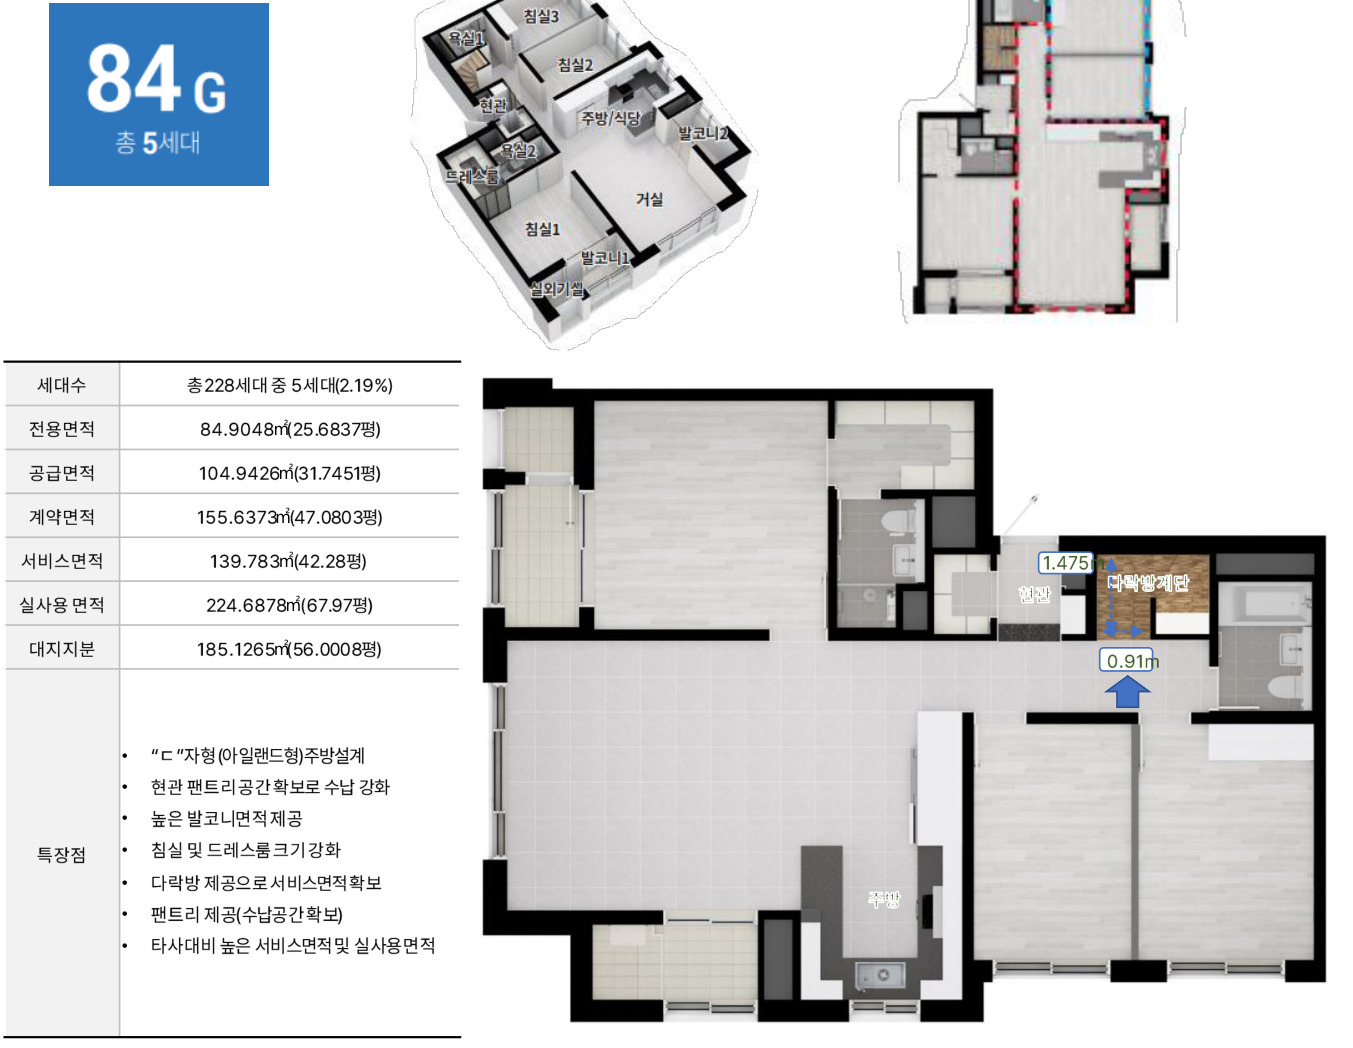
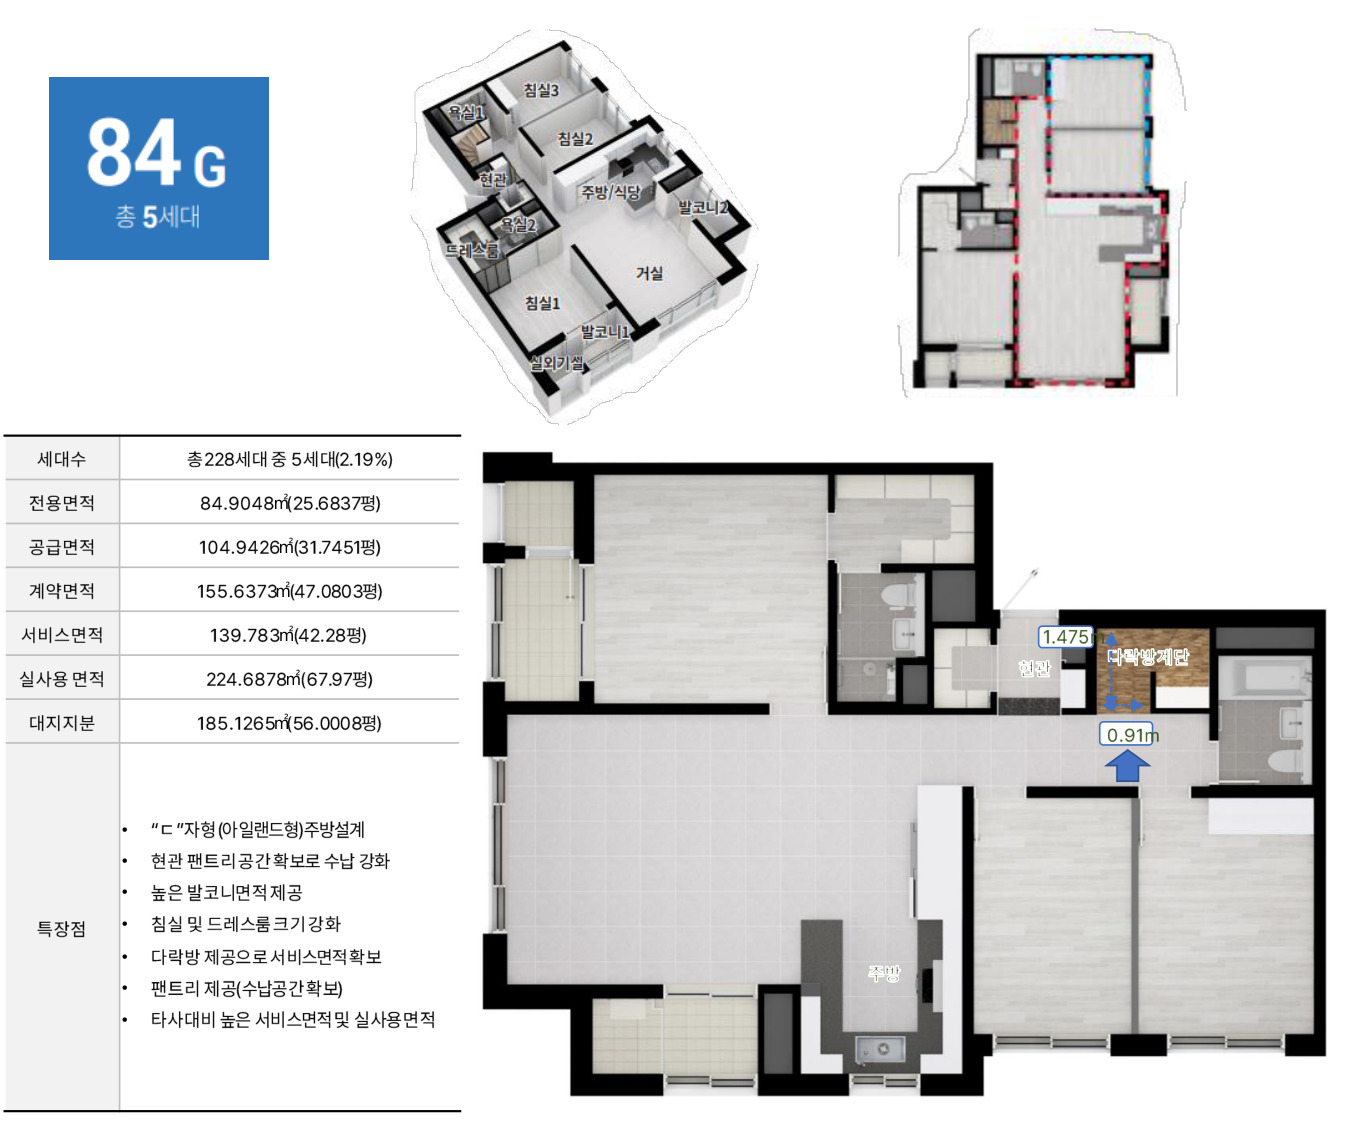
Add top margin to unit plan images

diff --git a/src/App.tsx b/src/App.tsx
@@ -127,77 +127,77 @@ const unitPlans: Record<
     title: "실사용 약 122.18㎡ 기본형",
     body: "3층 배치, 전용 84.96㎡에 발코니 서비스 면적을 더한 실속형 타입입니다.",
     households: "총 17세대",
-    image: "/assets/unit-84a-pdf.jpg",
+    image: "/assets/unit-84a-pdf.jpg?v=20260526-top-safe",
   },
   "84B": {
     label: "84B",
     title: "실사용 약 131.51㎡ 테라스형",
     body: "2층 배치, 발코니와 테라스 서비스 면적을 함께 누리는 확장감 있는 타입입니다.",
     households: "총 17세대",
-    image: "/assets/unit-84b-pdf.jpg",
+    image: "/assets/unit-84b-pdf.jpg?v=20260526-top-safe",
   },
   "84C": {
     label: "84C",
     title: "실사용 약 132.33㎡ 테라스형",
     body: "2층 일부 세대에 계획된 희소 타입으로 테라스 활용도를 높인 평면입니다.",
     households: "총 2세대",
-    image: "/assets/unit-84c-pdf.jpg",
+    image: "/assets/unit-84c-pdf.jpg?v=20260526-top-safe",
   },
   "84D": {
     label: "84D",
     title: "실사용 약 140.98㎡ 와이드형",
     body: "3층 배치, 넓은 테라스 서비스 면적으로 여유로운 외부공간을 더했습니다.",
     households: "총 27세대",
-    image: "/assets/unit-84d-pdf.jpg",
+    image: "/assets/unit-84d-pdf.jpg?v=20260526-top-safe",
   },
   "84E": {
     label: "84E",
     title: "실사용 약 241.64㎡ 다락 특화형",
     body: "3~4층 배치, 테라스와 다락을 모두 더한 대표 복층 특화 타입입니다.",
     households: "총 46세대",
-    image: "/assets/unit-84e-pdf.jpg",
+    image: "/assets/unit-84e-pdf.jpg?v=20260526-top-safe",
   },
   "84F": {
     label: "84F",
     title: "실사용 약 116.23㎡ 저층형",
     body: "1~3층에 고르게 배치된 타입으로 실용적인 발코니 서비스 면적을 갖췄습니다.",
     households: "총 14세대",
-    image: "/assets/unit-84f-pdf.jpg",
+    image: "/assets/unit-84f-pdf.jpg?v=20260526-top-safe",
   },
   "84G": {
     label: "84G",
     title: "실사용 약 224.68㎡ 다락 특화형",
     body: "3~4층 배치, 테라스와 다락이 더해져 입체적인 라이프스타일을 담는 타입입니다.",
     households: "총 5세대",
-    image: "/assets/unit-84g-pdf.jpg",
+    image: "/assets/unit-84g-pdf.jpg?v=20260526-top-safe",
   },
   "93": {
     label: "93",
     title: "실사용 약 132.64㎡ 중대형",
     body: "1층 배치, 전용 93.68㎡에 발코니 서비스 면적을 더한 여유형 타입입니다.",
     households: "총 19세대",
-    image: "/assets/unit-93-pdf.jpg",
+    image: "/assets/unit-93-pdf.jpg?v=20260526-top-safe",
   },
   "98": {
     label: "98",
     title: "실사용 약 162.30㎡ 테라스형",
     body: "2층 배치, 넓어진 주거 면적과 테라스 서비스 면적이 조화를 이루는 타입입니다.",
     households: "총 27세대",
-    image: "/assets/unit-98-pdf.jpg",
+    image: "/assets/unit-98-pdf.jpg?v=20260526-top-safe",
   },
   "101A": {
     label: "101A",
     title: "실사용 약 146.05㎡ 대형 타입",
     body: "1층 배치, 전용 101.31㎡ 기반의 여유로운 공간감과 서비스 면적을 갖췄습니다.",
     households: "총 27세대",
-    image: "/assets/unit-101a-pdf.jpg",
+    image: "/assets/unit-101a-pdf.jpg?v=20260526-top-safe",
   },
   "101B": {
     label: "101B",
     title: "실사용 약 165.64㎡ 대형 타입",
     body: "1층 배치, 전용 101.30㎡에 넓은 테라스 서비스 면적을 더한 타입입니다.",
     households: "총 27세대",
-    image: "/assets/unit-101b-pdf.jpg",
+    image: "/assets/unit-101b-pdf.jpg?v=20260526-top-safe",
   },
 };
 
